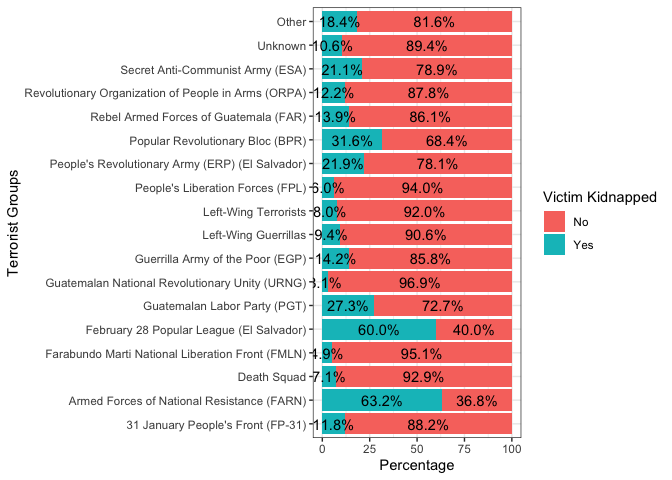
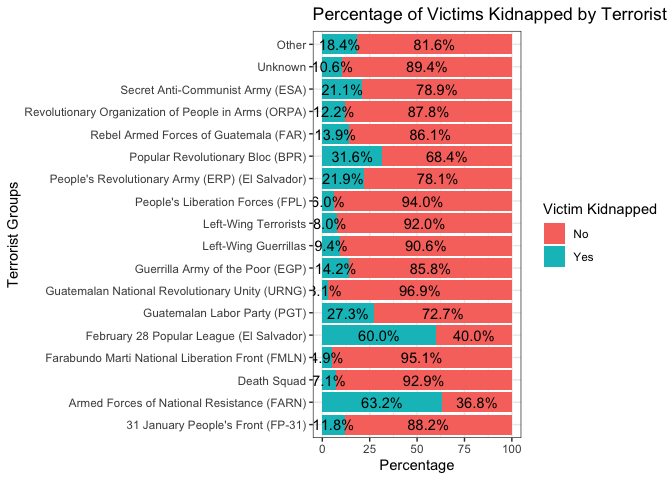
updated

Changed region(s): [[0.0312, 0.0, 1.0, 0.875], [0.8125, 0.375, 1.0, 0.5625], [0.0, 0.3438, 0.0312, 0.5938]]

diff --git a/Terror_Latin_America.md b/Terror_Latin_America.md
@@ -11,13 +11,13 @@ GT<-read.csv("~/downloads/globalterrorismdb_0718dist.csv")
 
 ## Clean-Up Data
 
-Our dataset is global so we will tidy it to only display attacks that
-occurred in Guatemala and El Salvador. Since there is around 135
-variables, many of which are redundant or unnecessary for our analysis,
-we will remove them. To make our visuals clearer, I merged some
-of the smaller terrorist groups together into an ‘Other’ category, as
-these groups had far fewer attacks compared to others. After these adjustments,
-we will be left with 26 crucial variables.
+Our data is nationwide so we will tidy it to only display attacks that
+happened in Guatemala and El Salvador. Also, there’s around 135
+variables, many of which are redundant or unnecessary for our analysis
+so we will scrape them. Just to make our visuals clearer, I merged some
+of the terrorist groups together into an ‘Other’ category because there
+were few times this group attacked compared to other groups. At the end,
+we remain with 26 variables.
 
 ``` r
 #only use data from Guatemala and El Salvador
@@ -25,22 +25,35 @@ we will be left with 26 crucial variables.
 GT<-GT %>%
   filter(region=='2', country_txt=='Guatemala'|country_txt=='El Salvador')
 
-#removing columns
+#removing columns with less than 10% data
 GT<-GT[ , colSums(is.na(GT))<.1] 
 
-#factor
+#only keep top 15 terrorist groups, the rest lump into an other category
 GT$gname<- fct_lump_min(GT$gname, min=15, other_level = "Other")
 
 GT<-GT[c(1,2,3,4,6,8,9,12,13,23,24,26,27,30,31,33,45,57,58,59,66,67,68,70,72,74)] #predictors to keep
-#only 28 variables remaining
 
-#turn into characters
-GT$eventid<-as.character(GT$eventid)
-GT$imonth<-as.character(GT$imonth)
-GT$iyear<-as.character(GT$iyear)
-GT$iday<-as.character(GT$iday)
-GT$country<-as.character(GT$country)
-GT$ishostkid<-as.character(GT$ishostkid)
+#turn into characters and factor
+GT$eventid<-as.factor(GT$eventid)
+GT$imonth<-as.factor(GT$imonth)
+GT$iyear<-as.factor(GT$iyear)
+GT$iday<-as.factor(GT$iday)
+GT$extended<-as.factor(GT$extended)
+GT$country<-as.factor(GT$country)
+GT$country_txt<-as.character(GT$country_txt)
+GT$provstate<-as.character(GT$provstate)
+GT$city<-as.character(GT$city)
+GT$multiple<-as.factor(GT$multiple)
+GT$success<-as.factor(GT$success)
+GT$attacktype1<-as.factor(GT$attacktype1)
+GT$attacktype1_txt<-as.character(GT$attacktype1_txt)
+GT$targtype1<-as.factor(GT$targtype1)
+GT$targtype1_txt<-as.character(GT$targtype1_txt)
+GT$gname<-as.factor(GT$gname)
+GT$weaptype1<-as.factor(GT$weaptype1)
+GT$property<-as.factor(GT$property)
+GT$ishostkid<-as.factor(GT$ishostkid)
+GT$kidhijcountry<-as.character(GT$kidhijcountry)
 ```
 
 ### Defining our Variables
@@ -121,14 +134,34 @@ are any during the attacks.
 
 ## Visualizations
 
+Let’s do a chi-square test to see if the attack frequencies between
+Guatemala and El Salvador are proportionate.
+
+``` r
+# chi-square test
+GS<-table(GT$country)
+chisq.test(GS)
+```
+
+    ## 
+    ##  Chi-squared test for given probabilities
+    ## 
+    ## data:  GS
+    ## X-squared = 1450.9, df = 1, p-value < 2.2e-16
+
+Since the p-value \> .05, we reject the null hypothesis. This indicates
+there is a significant difference in the frequency of attacks between
+both countries. Let’s dive deeper and visualize the attack frequencies
+for both countries.
+
 ### Distribuation of Attacks
 
 ``` r
 GT %>%
-ggplot(aes(country_txt))+geom_bar(fill=c('#56B4E9', '#009E73'))+labs(y="Number of Attacks",x="Country",title="Number of Attacks in each Country")
+ggplot(aes(country_txt))+geom_bar(fill=c('#56B4E9', '#009E73'))+labs(y="Number of Attacks",x="Country",title="Number of Attacks: El Salvador vs. Guatemala")
 ```
 
-![](Terror_Latin_America_files/figure-gfm/unnamed-chunk-4-1.png)<!-- -->
+![](Terror_Latin_America_files/figure-gfm/unnamed-chunk-5-1.png)<!-- -->
 
 ``` r
 GT%>%
@@ -171,69 +204,68 @@ GT%>%
     ## 12                                             Unknown 1413
     ## 13                                               Other   52
 
-This bar graph shows that from 1970 to 2017, El Salvador experienced significantly more attacks than Guatemala, with over
-double the amount of recorded incidents. This is important because it highlights the need to compare the data using percentages.
+With this bar graph, we see that from 1970-2017 there were significantly
+more attacks in El Salvador than Guatemala. El Salvador had more than
+double the amount of attacks. Its good to know because now when we
+compare country differences using percentages.
 
-The FMLN drove El Salvador’s attacks exponentially with
-them contributing to 3330 recorded attacks. While both El Salvador and
-Guatemala had a FMLN group, it appears to have been much more active in El
-Salvador. My parents, who grew up in El Salvador around that time
-described it as a bloodbath-many families fled, 
-only to be shot in front of their children. I imagine the situation in
-Guatemala is similar especially considering the imagery depicted in *The Tattooed
-Soldier*. Thus, the fact that only 5 FMLN attacks are recorded in Guatemala
-leads me to believe this data might be skewed or incomplete.
+The terrorist group FMLN drove El Salvador’s attacks exponentially with
+them contributing to 3330 recorded attacks. Though, both El Salvador and
+Guatemala had an FMLN group, it seems to have been more full force in El
+Salvador. My parents grew up in El Salvador around that time and they
+described it as a blood bath. Many parents ran away with their families
+only to be shot in front of their kids. I imagine it was similar in
+Guatemala especially considering the imagery depicted in *The Tattooed
+Soldier*. Thus, seeing there’s only 5 recorded FMLN attacks in Guatemala
+leads me to believe this data might be heavily skewed.
 
-### Correlation Between Variables
-
-``` r
-#correlation between predictors
-cor_GT<- GT %>%
-  correlate()
-```
-
-    ## Non-numeric variables removed from input: `eventid`, `iyear`, `imonth`, `iday`, `country`, `country_txt`, `provstate`, `city`, `attacktype1_txt`, `targtype1_txt`, `target1`, `gname`, `weaptype1_txt`, `weapsubtype1_txt`, `weapdetail`, `propextent_txt`, `ishostkid`, `kidhijcountry`, and `hostkidoutcome_txt`
-    ## Correlation computed with
-    ## • Method: 'pearson'
-    ## • Missing treated using: 'pairwise.complete.obs'
-
-``` r
-  stretch(cor_GT) %>%
-  ggplot(aes(x,y,fill=r))+geom_tile() +
-  geom_text(aes(label = as.character(fashion(r))))
-```
-
-![](Terror_Latin_America_files/figure-gfm/unnamed-chunk-5-1.png)<!-- -->
-
-Through this graph, we see the type of weapon used is strongly
-correlated with the type of attack. This is to be expected considering
-depending on the attack they want to enact, it determines the kinds of
-weapons they can use. However, I was not expecting the target victim to
-correlate with multiple. This means that if victims were attacked for
-specific reasons, it could determine whether this attack is part of a
-multiple incident.
-
-### Bar Plot on Victims who were Kidnapped
+### Kidnapping Incidents Across Terrorist Groups
 
 ``` r
 GT %>% 
   count(gname, ishostkid)%>%
   group_by(gname) %>% 
   mutate(count=prop.table(n)*100) %>%
-  ggplot(aes(x=gname, y=count, fill=ishostkid))+geom_bar(stat="identity")+ geom_text(aes(label=paste0(sprintf("%1.1f",count),"%")),position=position_stack(vjust = .5))+theme_bw()+labs(y="Percentage",x="Terrorist Groups", )+coord_flip()+scale_fill_discrete(name="Victim Kidnapped", breaks=c(0,1), labels=c("No", "Yes"))
+  ggplot(aes(x=gname, y=count, fill=ishostkid))+geom_bar(stat="identity")+ geom_text(aes(label=paste0(sprintf("%1.1f",count),"%")),position=position_stack(vjust = .5))+theme_bw()+labs(y="Percentage",x="Terrorist Groups", title="Percentage of Victims Kidnapped by Terrorist Groups") + coord_flip() +scale_fill_discrete(name="Victim Kidnapped", breaks=c(0,1), labels=c("No", "Yes"))
 ```
 
 ![](Terror_Latin_America_files/figure-gfm/unnamed-chunk-6-1.png)<!-- -->
 
-This distribution is incredibly terrifying, especially since February 28
-Popular League and FARN held hostages or kidnapped people in more than half
-of their attacks. It seems they primarily targeted innocent civilians to get what
+This distribution is incredibly terrifying especially since February 28
+Popular League and FARN held hostages or kidnapped people for over half
+of their attacks. It seems they targeted innocent civilians to get what
 they wanted.
 
-What shocked me further was discovering FMLN only kidnapped people 4.9% of
-the time. I was under the impression kidnapping was one of their primarily attack methods. My parents claimed the FMLN would often kidnap children, forcing
-them to join their army or face execution. From what
-they saw the military only drafted adults, while the FMLN targeted children for recruitment.
+However, it further shocked me to see FMLN only kidnapped people 4.9% of
+the time. I was under the impression this was one of their main forms of
+attack. My parents claimed the FMLN would kidnapped children and force
+them to join their army or they would be killed. They stated from what
+they saw the military didn’t draft children, just adults but the FMLN
+did.
+
+### Exploring the Weapon Types Used in Guatemala
+
+``` r
+GT %>% 
+  filter(country_txt=='Guatemala')%>%
+  count(gname, weaptype1)%>%
+  group_by(gname) %>% 
+  mutate(count=prop.table(n)*100) %>%
+  ggplot(aes(x=gname, y=count, fill=weaptype1))+geom_bar(stat='identity')+    
+  geom_text(aes(label=paste0(sprintf("%1.1f",count),"%")),position=position_stack(vjust = .5))+
+  labs(y="Percentage",x="Terrorist Groups",title="Weaponry Used in Terrorist Attacks in Guatemala ")+coord_flip()+scale_fill_discrete(name="Weapon Types", breaks=c(10, 11,13, 5, 6,8,9), labels=c("Vehicle", "Sabotage Equipment", "Unknown", "Firearms", "Explosives","Incendiary", "Melee"))+scale_fill_viridis(discrete=TRUE)
+```
+
+    ## Scale for fill is already present.
+    ## Adding another scale for fill, which will replace the existing scale.
+
+![](Terror_Latin_America_files/figure-gfm/unnamed-chunk-7-1.png)<!-- -->
+
+The most common weapon used in Guatemala is firearms, with explosives
+coming in second. FP-31 seems like explosives was their weapon of
+choice, 76.5% of their attacks were explosive attacks. All manners of
+hurting people are awful, but to choose explosives, I think there’s an
+extra layer of anger and resentment to use that.
 
 ### Comparing Same Terrorist Group in Each Country
 
@@ -250,38 +282,55 @@ GT %>% mutate(country_txt=factor(country_txt, levels = c("Guatemala","El Salvado
     ## using the `.groups` argument.
 
 ``` r
-#Plot
-Sums<-Sums[ rowSums(is.na(Sums))<.1,] 
-ggplot(Sums,aes(x=country_txt,y=Percent,fill=attacktype1))+geom_bar(stat='identity',position = position_stack())+facet_wrap(.~gname)+geom_text(aes(label=Lab),position = position_stack(vjust = .5),size=2)+labs(x="Country", title = "Distribution of Terrorist Groups Based on Each Country")
-```
-
-![](Terror_Latin_America_files/figure-gfm/unnamed-chunk-7-1.png)<!-- -->
-
-It appears Death Squad was equally active in both
-countries, continuously using the same types of attacks.
-However, Left-Wing Terrorist and Left-Wing Guerrillas both used different attacks
-depending on the country. Despite being 2 separate groups, they (L-W
-Guerrillas & L-W Terrorist) used similar attacks in the same country. I
-believe this is due to the different environments-groups likely tailored their attacks to have a stronger impact on local population. 
-
-The FMLN is hard to discuss considering there’s great discrepancies
-in the number of attacks.
-
-### Distribution of Weapon Types Used in Guatemala
-
-``` r
-GT$weaptype1<-as.character(GT$weaptype1)
-GT %>% 
-  filter(country_txt=='Guatemala')%>%
-  count(gname, weaptype1)%>%
-  group_by(gname) %>% 
-  mutate(count=prop.table(n)*100) %>%
-  ggplot(aes(x=gname, y=count, fill=weaptype1))+geom_bar(stat='identity')+  geom_text(aes(label=paste0(sprintf("%1.1f",count),"%")),position=position_stack(vjust = .5))+labs(y="Percentage",x="Group who Attacked",title="Weapon Types Used In Attacks In Guatemala ")+coord_flip()+scale_fill_discrete(name="Weapon Types", breaks=c(10, 11,13, 5, 6,8,9), labels=c("Vehicle", "Sabotage Equipment", "Unknown", "Firearms", "Explosives","Incendiary", "Melee"))
+Sums<-Sums[rowSums(is.na(Sums))<.1,] 
+#plot
+ggplot(Sums,aes(x=country_txt,y=Percent,fill=attacktype1))+geom_bar(stat='identity',position = position_stack())+facet_wrap(.~gname)+geom_text(aes(label=Lab),position = position_stack(vjust = .5),size=2)+labs(x="Country", title = "Distribution of Terrorist Groups Based on Each Country")+  scale_color_viridis(discrete = TRUE) 
 ```
 
 ![](Terror_Latin_America_files/figure-gfm/unnamed-chunk-8-1.png)<!-- -->
 
-In Guatemala, the most common weapon used in attacks was firearms, with explosives
-coming in second. The FP-31 group, in particular, seems to have favored explosives-76.5% of their attacks involved them. While all forms of
-violence are horrific, choosing explosives feels particularly charged, to me it suggests an
-extra layer of anger and resentment behind their actions.
+It appears Death Squad was equally active in both Central American
+countries and they continuously used the same types of attacks.
+Left-Wing Terrorist and Left-Wing Guerrillas both used different attacks
+based on the country. However despite being 2 separate groups they \[L-W
+Guerrillas & L-W Terrorist\] use similar attacks in the same country. I
+believe this is due to the different environments, groups would commit
+attacks that would have a bigger impact in the country and among the
+people. FMLN is hard to discuss considering there’s great discrepancies
+in the number of attacks.
+
+### Terrorist Attacks over Time
+
+``` r
+GT2 <- GT %>%
+  group_by(iyear, imonth, country) %>%
+  summarise(attack_count = n(), .groups = 'drop') %>%
+ mutate(year_month = as.Date(paste(iyear, imonth,"01", sep = "-"))) # create a date column
+
+#turn binary country into text
+GT2$country<-factor(GT2$country,levels = c(61, 83), labels = c("El Salvador", "Guatemala"))
+
+#plot the time series
+ggplot(GT2, aes(x = year_month, y = attack_count, color = country, group = country)) +
+  geom_line(size = 1) +  
+  labs(
+    title = "Monthly Frequency of Terrorist Attacks",
+    x = "Year",
+    y = "Number of Attacks"
+  )  + theme_minimal()+
+  scale_x_date(date_labels = "%Y", date_breaks = "1 year") + 
+  scale_color_manual(values=c("El Salvador"="#56B4E9","Guatemala"="#009E73")) +
+  guides(color = guide_legend(title = "Country")) +  # name the legend
+  theme(axis.text.x = element_text(angle = 45, hjust = 1))
+```
+
+    ## Warning: Using `size` aesthetic for lines was deprecated in ggplot2 3.4.0.
+    ## ℹ Please use `linewidth` instead.
+    ## This warning is displayed once every 8 hours.
+    ## Call `lifecycle::last_lifecycle_warnings()` to see where this warning was
+    ## generated.
+
+    ## Warning: Removed 1 row containing missing values or values outside the scale range
+    ## (`geom_line()`).
+
+![](Terror_Latin_America_files/figure-gfm/unnamed-chunk-9-1.png)<!-- -->

diff --git a/Conclusion.md b/Conclusion.md
@@ -2,7 +2,7 @@
 
 El Salvador had far more attacks than Guatemala, largely due to the FMLN group, who was extremely more active in El Salvador than Guatemala. This group's attack methods were particularly horrific, considering they kidnapped children from a young age for forced recruitment.  
 
-Overall, Guatemala had fewer recorded attacks, which leads me to believe that the data might be incomplete or skewed in some way. The patterns of violence in both countries, however, are strikingly similar when it comes to the Death Squad group, which seemed equally active in both countries. But what’s interesting is that Left-Wing Terrorists and Guerrillas in each country seemed to use different methods, possibly because they were adapting to the different socio-political situations.
+Overall, Guatemala had fewer recorded attacks, which leads me to believe that the data might be incomplete or skewed in some way. Especially because Guatemala is significantly larger and more populated. The patterns of violence in both countries, however, are strikingly similar when it comes to the Death Squad group, which seemed equally active in both countries. But what’s interesting is that Left-Wing Terrorists and Guerrillas in each country seemed to use different methods, possibly because they were adapting to the different socio-political situations.
 
 Looking at data visuals of some of the most horrific crimes may easily
 desensitize individuals. This is why I chose a small quote from *The
